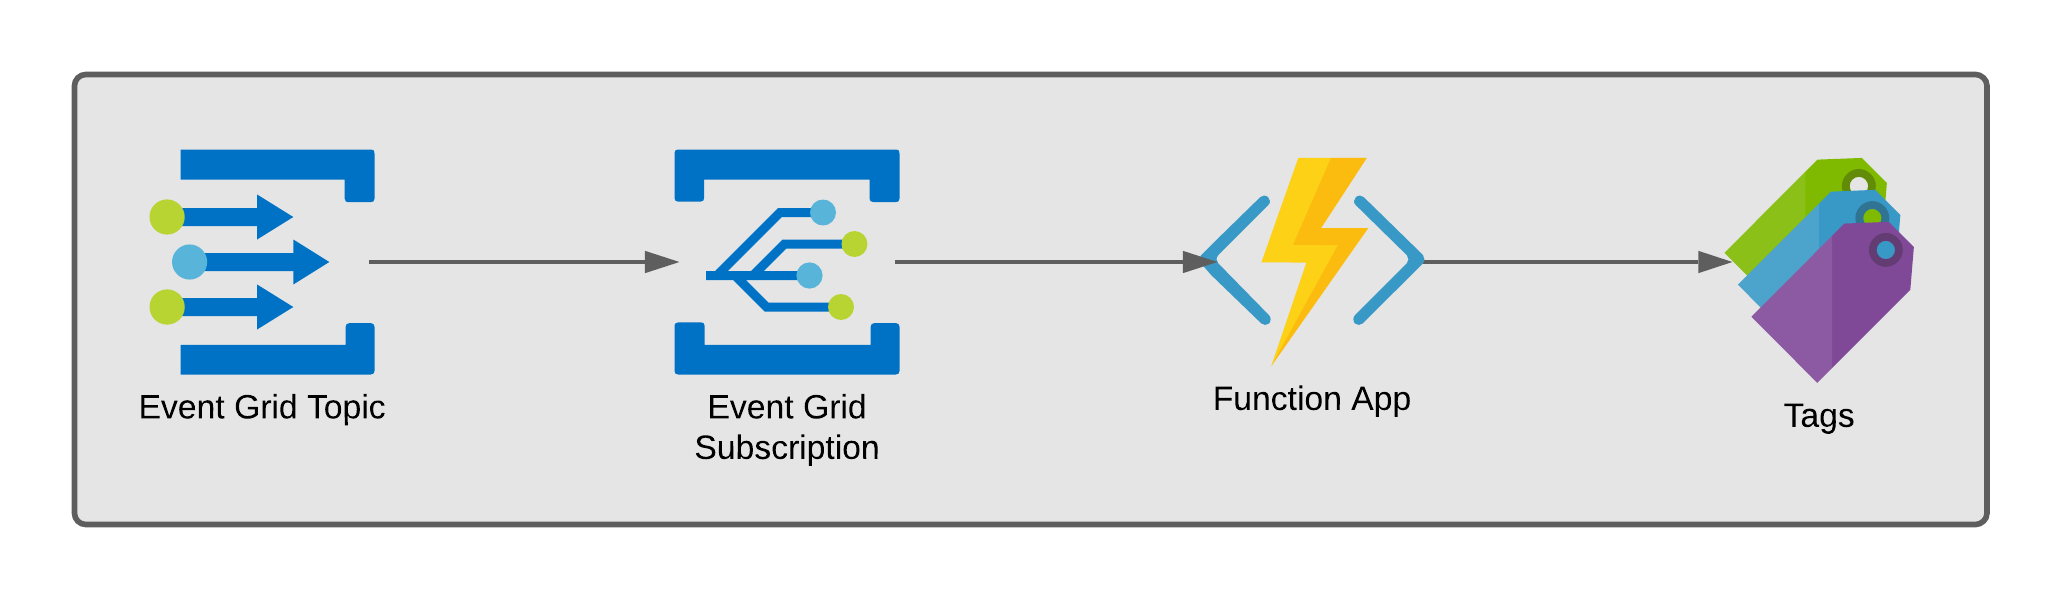
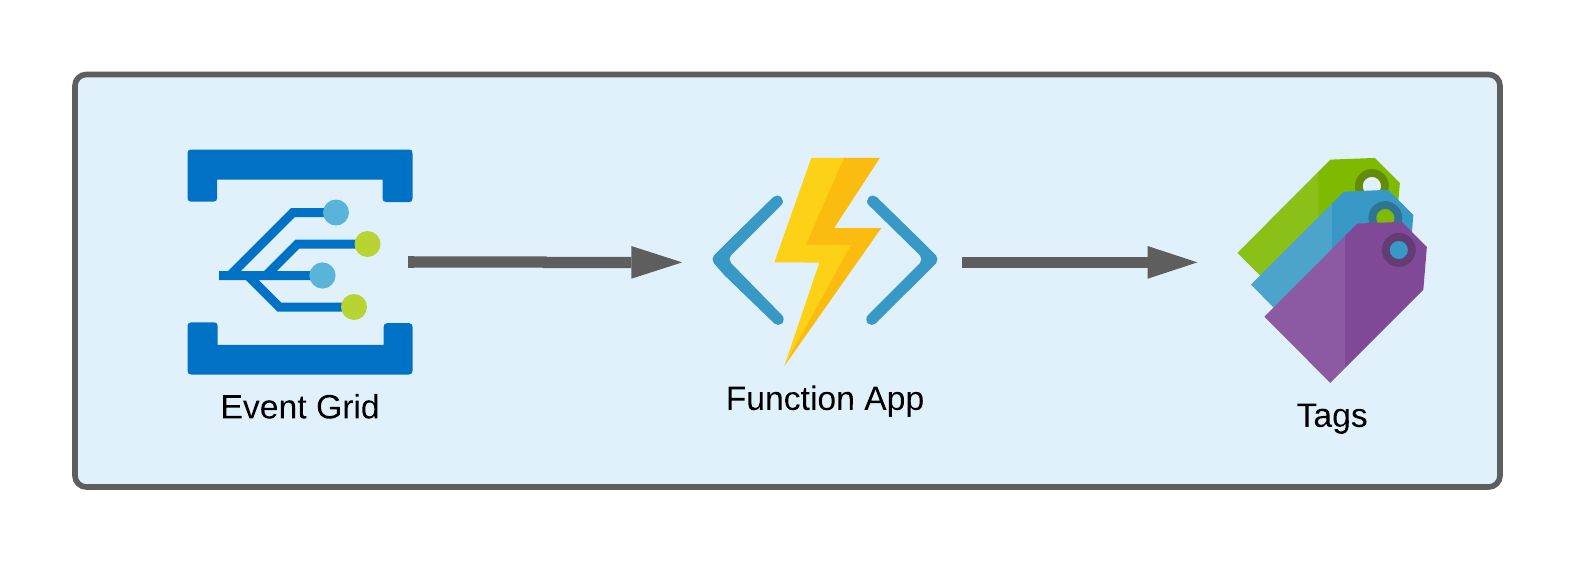
reformat, update images

diff --git a/_posts/2021-03-01-azureautotagger.md b/_posts/2021-03-01-azureautotagger.md
@@ -13,8 +13,6 @@ description: Quickly deploy a serverless solution to automate tagging of Azure r
 
 Azure AutoTagger is a lightweight, low-cost serverless solution that can easily be deployed to an Azure subscription. Once deployed Azure AutoTagger monitors for `ResourceWriteSucess` events within the subscription and triggers an Azure Function to automatically apply a `LastModifiedTimestamp` and `LastModifiedBy` tag.
 
-![azureautotagger](/assets/img/autotagger/autotagger.png)
-
 * **https://github.com/acampb/AzureAutoTagger**: Contains the ARM template code to deploy the infrastructure and role assignments to the subscription
 
 * **https://github.com/acampb/AzureAutoTaggerFunction**: Contains the Azure Function PowerShell code
@@ -53,7 +51,19 @@ az deployment create --location "West US" --template-file ".\azuredeploy.json" -
 
 ## Event Grid
 
-The solution starts by creating an Event Grid System Topic connected to the Azure subscription it is deployed in. An Event Grid Subscription is then configured to consume the events emitted by the Azure subscription. The Event Grid Subscription only consumes events of the type `ResourceWriteSuccess`, so we are only sending events to this subscription when a resource is written (created or changed).
+Azure Event Grid allows you to build applications with event-based architectures. Configure the Azure resource you would like to subscribe to, and then give the event handler or WebHook endpoint to send the event to. Event Grid has built-in support for events coming from Azure services, like storage blobs, resource groups, and subscriptions. Event Grid also has support for your own events, using custom topics.
+
+![event-grid](/assets/img/autotagger/event-grid.png)
+
+There are five concepts in Azure Event Grid that let you get going:
+
+* **Events** - JSON data describing what happened.
+* [**Event Sources**](https://docs.microsoft.com/en-us/azure/event-grid/overview#event-sources) - Azure service the event took place (or custom). In this solution this is the Azure Subscription itself.
+* **Topics** - The deployed Azure resource (endpoint) where publishers send events.
+* **Event subscriptions** - The endpoint or built-in mechanism to route events, sometimes to more than one handler. Subscriptions are also used by handlers to intelligently filter incoming events.
+* [**Event handlers**](https://docs.microsoft.com/en-us/azure/event-grid/overview#event-handlers) - The app or service reacting to the event. In this solution we are using an Azure Function App
+
+The Azure AutoTagger solution starts by creating an Event Grid System Topic configured with the Azure subscription as the event source. An Event Subscription is then configured to consume the events emitted by the Azure subscription. The Event Subscription only routes events of the type `ResourceWriteSuccess`, so we are only sending events to this subscription when a resource is written (created or changed). The Event Subscription is connected to the Azure Function App as it's Event Handler.
 
 The events emitted by the Azure Subscription are standard JSON payloads describing what resource was changed, and the authentication claim of the identity initiating performing the resource write operation. Below is a sample event JSON from the Azure documentation:
 
@@ -117,11 +127,80 @@ The events emitted by the Azure Subscription are standard JSON payloads describi
 
 The event JSON contains some interesting data that we will utilize later within our Azure function, notably the `ResourceUri` and some claim information about the user or service principal performing the operation. The Event Subscription is configured to trigger our Azure Function to execute on a new event and will pass this JSON data object to the Function as a parameter in our PowerShell script.
 
-You may be thinking "wait, wont the Azure Function writing tags create an endless loop of insanity?". Yes, yes it will, unless we configure some additional filtering. Within the Event Grid Subscription configure we also create an advanced filter to exclude the event if the `$data.claims.appid` matches the appid of the Azure Function itself.
+You may be thinking "wait, wont the Azure Function writing tags create an endless loop of insanity?". Yes, yes it will, unless we configure some additional filtering. Within the Event Grid Subscription configure we also create an advanced filter to exclude the event if the `$data.claims.appid` matches the appid of the Azure Function's identity.
 
 ## Azure Function
 
-The Azure Function executes PowerShell code which parses the JSON data provided from the Event Grid for which user or service principal modified the Azure resource, and what the Resource Uri is. The script then creates a hashtable and updates the tags on the resource. The code performs an `Update-AzTag -Merge` operation so any existing tags are preserved.
+Azure Functions is a serverless solution that allows you to write less code, maintain less infrastructure, and save on costs. Instead of worrying about deploying and maintaining servers, the cloud infrastructure provides all the up-to-date resources needed to keep your applications running.
+
+![functions](/assets/img/autotagger/functions.png)
+
+A PowerShell Azure Function is represented as a PowerShell script that executes when triggered. Each function script has a related `function.json` file that defines how the function behaves, such as how it's triggered and its input and output parameters.
+
+PowerShell Functions take in parameters that match the names of all the input bindings defined in the `function.json` file. A `TriggerMetadata` parameter is also passed that contains additional information on the trigger that started the function.
+
+The Azure AutoTagger solution deploys a Function App containing a single PowerShell script Function named `AutoTagger`. The `AutoTagger` Function executes a PowerShell script which parses the JSON data provided from the Event Grid for which user or service principal modified the Azure resource, and what  Resource Uri was modified. The script then creates a hashtable and updates the tags on the resource. The code performs an `Update-AzTag -Merge` operation so any existing tags are preserved.
+
+```powershell
+param($eventGridEvent, $TriggerMetadata)
+
+# Make sure to pass hashtables to Out-String so they're logged correctly
+#$eventGridEvent | Out-String | Write-Host
+
+# uncomment for claims detail for debugging
+#Write-Output $eventGridEvent.data.claims | Format-List
+
+$name = $eventGridEvent.data.claims.name
+Write-Output "NAME: $name"
+
+$appid = $eventGridEvent.data.claims.appid
+Write-Output "APPID: $appid"
+
+$email = $eventGridEvent.data.claims.'http://schemas.xmlsoap.org/ws/2005/05/identity/claims/emailaddress'
+Write-Output "EMAIL: $email"
+
+$time = Get-Date -Format o
+Write-Output "TIMESTAMP: $time"
+
+$uri = $eventGridEvent.data.resourceUri
+Write-Output "URI: $uri"
+
+
+try {
+    $resource = Get-AzResource -ResourceId $uri -ErrorAction Stop
+
+    If (($resource) -and
+        ($resource.ResourceId -notlike '*Microsoft.Resources/deployments*')) {
+
+        Write-Output 'Attempting to tag resource'
+
+        If ($email) {
+            $lastModifiedBy = $email
+        } else {
+            $lastModifiedBy = $appid
+        }
+
+        $tags = @{
+            "LastModifiedBy"        = $lastModifiedBy
+            "LastModifiedTimeStamp" = $time
+        }
+        try {
+            Update-AzTag -ResourceId $uri -Tag $tags -Operation Merge
+        }
+        catch {
+            Write-Output "Encountered error writing tag, may be a resource that does not support tags."
+        }
+    }
+    else {
+        Write-Output 'Excluded resource type'
+    }
+}
+catch {
+    Write-Output "Not able query the resource Uri. This could be due to a permissions problem (identity needs reader); or not a resource we can query"
+}
+```
+
+## Additional Resources Deployed
 
 These additional resources are deployed in support of the Azure Function:
 
@@ -129,50 +208,6 @@ These additional resources are deployed in support of the Azure Function:
 * **App Service Plan**: The App Service Plan is the hosting plan for the Azure Function. The plan provides the compute and memory for the function, and controls additional functionality. The deployment template defaults to the `Consumption` plan for the lowest possible cost, but this could be upgraded later if required.
 * **Application Insights**: Application Insights is deployed and configured in order to provide troubleshooting and log streaming capabilities.
 * **User Assigned Managed Identity**: A User assigned managed identity is created and assigned to the Azure Function. When the Function's PowerShell code is executed it is authenticated to the Azure subscription using this identity. This managed identity is also assigned to the `Reader` and `Tag Contributor` RBAC roles.
-
-## Authentication
-
-Getting authentication working correctly with this solution actually proved to be a bit of a challenge I wasn't expecting. Initially I created a System Assigned Managed Identity with the Function app, and added it to the `Reader` and `Tag Contributor` roles. The PowerShell runtime for Azure Functions actually handles this scenario natively very well. When your function is started it executes the `profile.ps1` file, and the default file has this section of code to authenticate to Azure built in.
-
-```powershell
-# Authenticate with Azure PowerShell using MSI.
-# Remove this if you are not planning on using MSI or Azure PowerShell.
-if ($env:MSI_SECRET) {
-    Disable-AzContextAutosave -Scope Process | Out-Null
-    Connect-AzAccount -Identity
-}
-```
-
-As soon as you create a system assigned managed identity for the Function App it will automatically create an environmental variable named `MSI_SECRET`. When this variable is present the `profile.ps1` authenticates to Azure using that identity.
-
-I used this approach for several weeks while I was developing and testing and it worked fine to get the Function authenticated. However, I was noticing the Function App performing the `Update-AzTag` operation was itself a `ResourceWriteSuccess` which caused the Event Grid to emit another event and trigger another execution of the Function. Initially I just focused on events where a user email address was present to use as the `LastModifiedBy` tag, but I also wanted to support resource changes made by other sources (ARM template deployments, Terraform, Ansible, Azure Policy, etc).
-
-Those sources were identifiable by `Application Id` and `Object Id`. I figured it would be easy to filter the `ResourceWriteSuccess` events caused by the Function itself from the Event Grid Subscription. I knew I could reference the `ObjectId` of a System Assigned Managed Identity from the ARM template deployment, I just needed to filter my events based on that. The `ObjectId` was present in JSON event data at `data.claims.http://schemas.microsoft.com/identity/claims/objectidentifier`. Unfortunately the Event Grid Advanced Filters have a limitation where keys with a . (dot) character cannot be used for a filter. So back to the drawing board.
-
-The JSON event data contains another property `data.claims.appid` which doesn't have dots in the key name, so I started down the rabbit hole of trying to query the Application Id of the System Assigned Managed Identity. I could not find any way to query this natively with ARM template `reference` functions as the service principal itself is an Azure Active Directory object, and not an Azure subscription resource. I was able to get an ARM template Deployment Script to execute a script to query Azure Active Directory for the App Id, but the Deployment Script itself the needed an identity with permissions to query Azure AD.
-
-I eventually settled on just creating a User Assigned Managed Identity directly with the ARM template deployment. That managed identity does expose it's Application Id within ARM so I can then configure the Function App to use this identity, and automatically create the advanced filter within the Event Grid Subscription to exclude events with this App Id.
-
-Now my ARM template was looking good, but some additional testing showed that my Function App was now no longer authenticating to Azure. This led me back to the bit of code in `profile.ps1` that handles authenticating to Azure. I confirmed that the environment variable `MSI_SECRET` still existed, but it would not authenticate.
-
-```shell
-ERROR: ManagedIdentityCredential authentication failed: Service request failed.Status: 400 (Bad Request)
-```
-
-This error led me to some [issues for `azure-sdk-for-net` on GitHub](https://github.com/Azure/azure-sdk-for-net/issues/13564); suggesting that what was missing was another environmental variable named `AZURE_CLIENT_ID` set to the managed identities' client id. This is due to the fact that a resource (Azure Function in this case) can have multiple user-assigned managed identities, and we need to explicitly tell it which to authenticate with. After creating `AZURE_CLIENT_ID` as an App Setting in the Function App (which are exposed as environmental variables at runtime), I was still recieving the same error.
-
-The final piece in the puzzle was the `Connect-AzAccount` cmdlet in `profile.ps1` itself. When using this cmdlet with a user assigned managed identity you need to provide the `-AccountId` parameter with the identity client id as well. I updated `profile.ps1` with the following code and everything came together and authenticated. I'm still utilizing the `AZURE_CLIENT_ID` variable set on the Function App as a method to pass the client id to the function code when it executes.
-
-
-
-```powershell
-# Authenticate with Azure PowerShell using MSI.
-# Remove this if you are not planning on using MSI or Azure PowerShell.
-if ($env:MSI_SECRET) {
-    Disable-AzContextAutosave -Scope Process | Out-Null
-    Connect-AzAccount -Identity -AccountId $env:AZURE_CLIENT_ID
-}
-```
 
 ## ARM Template Deployment
 

diff --git a/_drafts/date-azure-auto-tagger-authentication.md b/_drafts/date-azure-auto-tagger-authentication.md
@@ -1,0 +1,43 @@
+## Authentication
+
+Getting authentication working correctly with this solution actually proved to be a bit of a challenge I wasn't expecting. Initially I created a System Assigned Managed Identity with the Function app, and added it to the `Reader` and `Tag Contributor` roles. The PowerShell runtime for Azure Functions actually handles this scenario natively very well. When your function is started it executes the `profile.ps1` file, and the default file has this section of code to authenticate to Azure built in.
+
+```powershell
+# Authenticate with Azure PowerShell using MSI.
+# Remove this if you are not planning on using MSI or Azure PowerShell.
+if ($env:MSI_SECRET) {
+    Disable-AzContextAutosave -Scope Process | Out-Null
+    Connect-AzAccount -Identity
+}
+```
+
+As soon as you create a system assigned managed identity for the Function App it will automatically create an environmental variable named `MSI_SECRET`. When this variable is present the `profile.ps1` authenticates to Azure using that identity.
+
+I used this approach for several weeks while I was developing and testing and it worked fine to get the Function authenticated. However, I was noticing the Function App performing the `Update-AzTag` operation was itself a `ResourceWriteSuccess` which caused the Event Grid to emit another event and trigger another execution of the Function. Initially I just focused on events where a user email address was present to use as the `LastModifiedBy` tag, but I also wanted to support resource changes made by other sources (ARM template deployments, Terraform, Ansible, Azure Policy, etc).
+
+Those sources were identifiable by `Application Id` and `Object Id`. I figured it would be easy to filter the `ResourceWriteSuccess` events caused by the Function itself from the Event Grid Subscription. I knew I could reference the `ObjectId` of a System Assigned Managed Identity from the ARM template deployment, I just needed to filter my events based on that. The `ObjectId` was present in JSON event data at `data.claims.http://schemas.microsoft.com/identity/claims/objectidentifier`. Unfortunately the Event Grid Advanced Filters have a limitation where keys with a . (dot) character cannot be used for a filter. So back to the drawing board.
+
+The JSON event data contains another property `data.claims.appid` which doesn't have dots in the key name, so I started down the rabbit hole of trying to query the Application Id of the System Assigned Managed Identity. I could not find any way to query this natively with ARM template `reference` functions as the service principal itself is an Azure Active Directory object, and not an Azure subscription resource. I was able to get an ARM template Deployment Script to execute a script to query Azure Active Directory for the App Id, but the Deployment Script itself the needed an identity with permissions to query Azure AD.
+
+I eventually settled on just creating a User Assigned Managed Identity directly with the ARM template deployment. That managed identity does expose it's Application Id within ARM so I can then configure the Function App to use this identity, and automatically create the advanced filter within the Event Grid Subscription to exclude events with this App Id.
+
+Now my ARM template was looking good, but some additional testing showed that my Function App was now no longer authenticating to Azure. This led me back to the bit of code in `profile.ps1` that handles authenticating to Azure. I confirmed that the environment variable `MSI_SECRET` still existed, but it would not authenticate.
+
+```shell
+ERROR: ManagedIdentityCredential authentication failed: Service request failed.Status: 400 (Bad Request)
+```
+
+This error led me to some [issues for `azure-sdk-for-net` on GitHub](https://github.com/Azure/azure-sdk-for-net/issues/13564); suggesting that what was missing was another environmental variable named `AZURE_CLIENT_ID` set to the managed identities' client id. This is due to the fact that a resource (Azure Function in this case) can have multiple user-assigned managed identities, and we need to explicitly tell it which to authenticate with. After creating `AZURE_CLIENT_ID` as an App Setting in the Function App (which are exposed as environmental variables at runtime), I was still recieving the same error.
+
+The final piece in the puzzle was the `Connect-AzAccount` cmdlet in `profile.ps1` itself. When using this cmdlet with a user assigned managed identity you need to provide the `-AccountId` parameter with the identity client id as well. I updated `profile.ps1` with the following code and everything came together and authenticated. I'm still utilizing the `AZURE_CLIENT_ID` variable set on the Function App as a method to pass the client id to the function code when it executes.
+
+
+
+```powershell
+# Authenticate with Azure PowerShell using MSI.
+# Remove this if you are not planning on using MSI or Azure PowerShell.
+if ($env:MSI_SECRET) {
+    Disable-AzContextAutosave -Scope Process | Out-Null
+    Connect-AzAccount -Identity -AccountId $env:AZURE_CLIENT_ID
+}
+```
